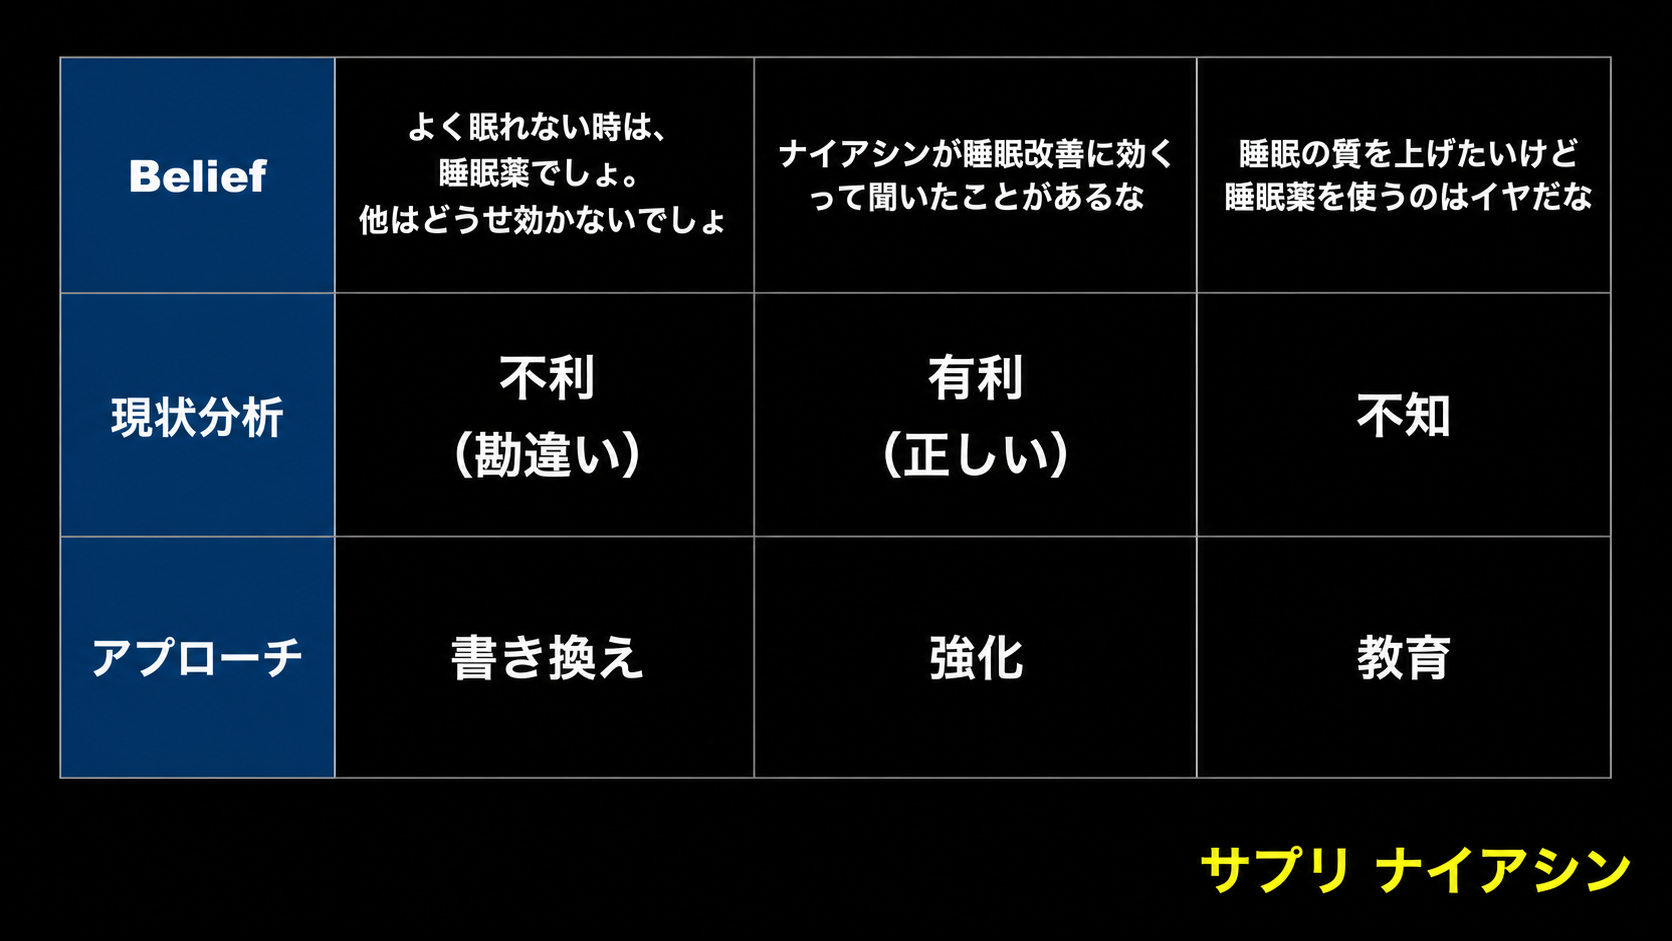
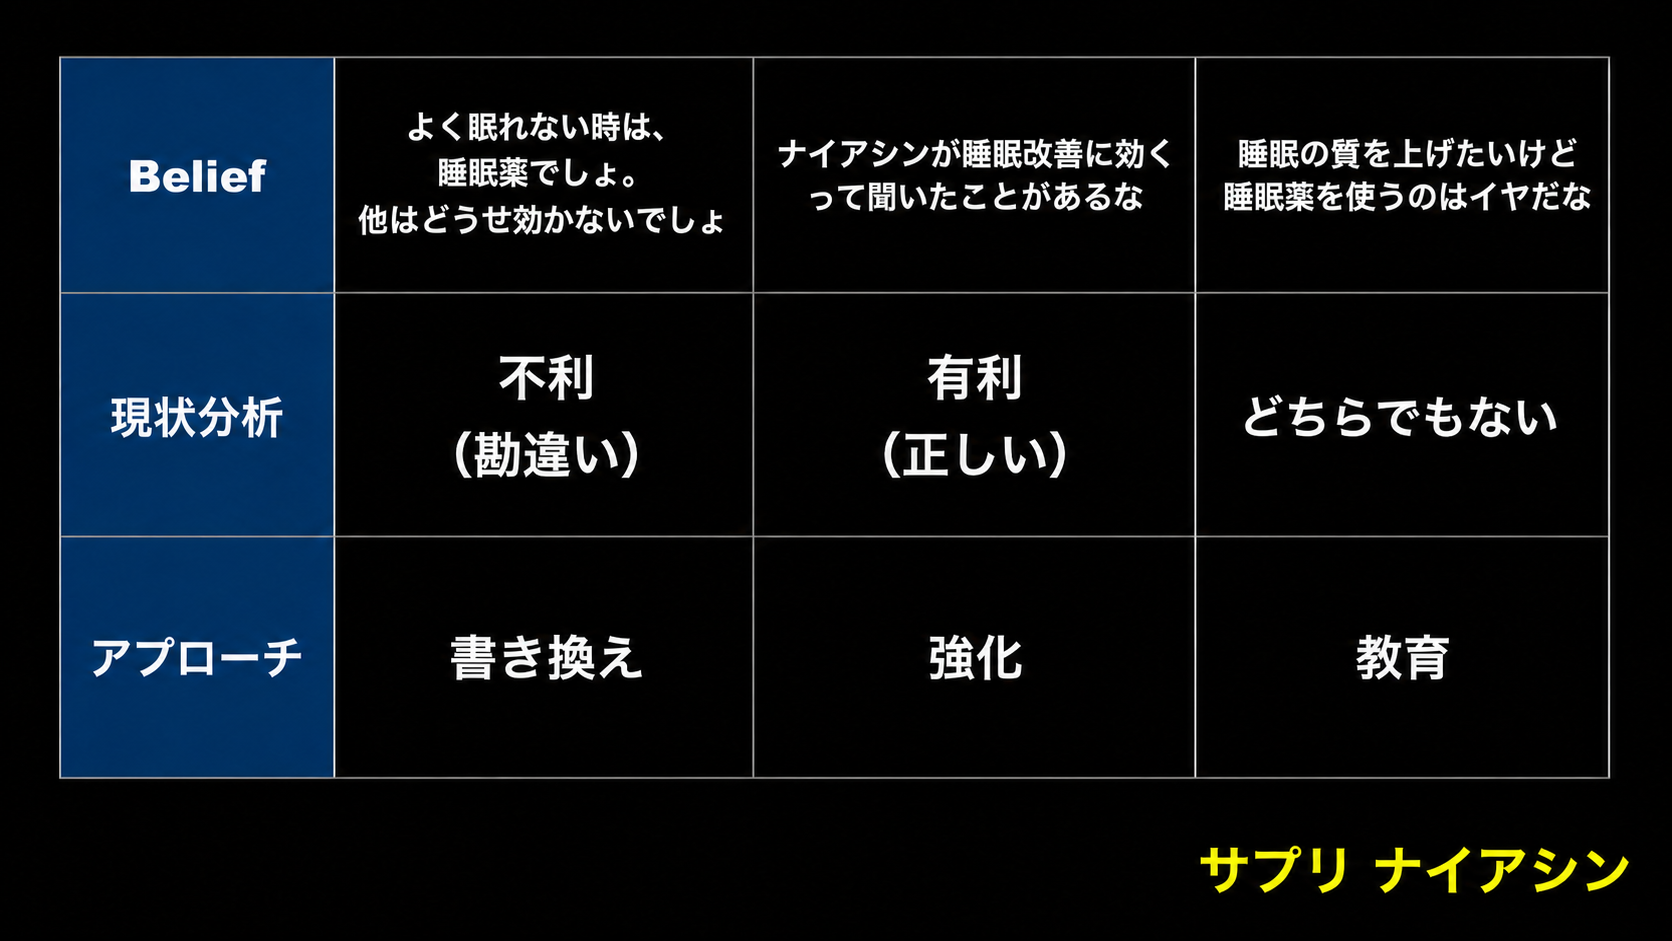
Clarify neutral BDF classification

diff --git a/bdf-customer-research.html b/bdf-customer-research.html
@@ -417,8 +417,8 @@
       <p>例えば、具体例で見ると次のようになります。</p>
       <h3>具体例：睡眠の質を上げるナイアシン系サプリを売る場合</h3>
       <figure class="lecture-figure">
-        <img src="assets/bdf-customer-research/bdf-belief-niacin-lecture.png" alt="ナイアシンサプリのBeliefを不利・有利・不知に分類し、書き換え・強化・教育のアプローチを示した講義資料">
-        <figcaption>講義内の分類。ここでの「不知」は、商品に対して有利・不利のどちらとも言えない状態です。「書き換え」は、社内共通語の「新認知」にあたります。</figcaption>
+        <img src="assets/bdf-customer-research/bdf-belief-niacin-lecture.png" alt="ナイアシンサプリのBeliefを不利・有利・どちらでもないに分類し、書き換え・強化・教育のアプローチを示した資料">
+        <figcaption>Beliefを「不利」「有利」「どちらでもない」に分類した例です。「書き換え」は、社内共通語の「新認知」にあたります。</figcaption>
       </figure>
       <div class="action-box">
         <h3>Beliefを記事に使うとき</h3>
